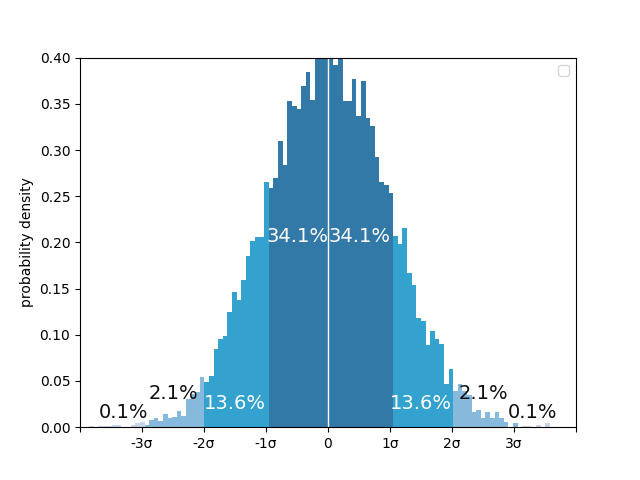
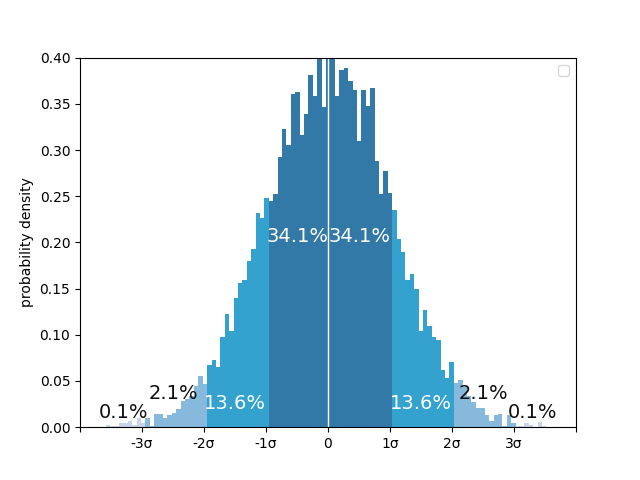
1

diff --git a/test/test_SD_interpretation_application.py b/test/test_SD_interpretation_application.py
@@ -69,18 +69,22 @@ class TDD_TEST_SD_INTERPRETATION_APPLICATION(unittest.TestCase):
                 return ''
             else:
                 return '{0}σ'.format(int(tick_val))
+        oneσ = str(round(self.d.getProbability(σRange=[1, 0])/2*100, 1))+'%'
+        twoσ = str(round(self.d.getProbability(σRange=[2, 1])/2*100, 1))+'%'
+        threeσ = str(round(self.d.getProbability(σRange=[3, 2])/2*100, 1))+'%'
+        fourσ = str(round(self.d.getProbability(σRange=[4, 3]) / 2 * 100, 1)) + '%'
         self.d.plotND(x=[-4, 4], y=[0, .4], l=[l1], mean=0, bars=100, yLable='probability density', density=True,
-format_fn=format_fn,
-annotation=[
-    {'position': (-.5, .2), 'txt': '34.1%', 'color': self.d.white},
-    {'position': (.5, .2), 'txt': '34.1%', 'color': self.d.white},
-    {'position': (-1.5, .02), 'txt': '13.6%', 'color': self.d.white},
-    {'position': (1.5, .02), 'txt': '13.6%', 'color': self.d.white},
-    {'position': (-2.5, .03), 'txt': '2.1%', 'color': self.d.black},
-    {'position': (2.5, .03), 'txt': '2.1%', 'color': self.d.black},
-    {'position': (-3.3, .01), 'txt': '0.1%', 'color': self.d.black},
-    {'position': (3.3, .01), 'txt': '0.1%', 'color': self.d.black}
-])
+                      format_fn=format_fn,
+                      annotation=[
+            {'position': (-.5, .2), 'txt': oneσ, 'color': self.d.white},
+            {'position': (.5, .2), 'txt': oneσ, 'color': self.d.white},
+            {'position': (-1.5, .02), 'txt': twoσ, 'color': self.d.white},
+            {'position': (1.5, .02), 'txt': twoσ, 'color': self.d.white},
+            {'position': (-2.5, .03), 'txt': threeσ , 'color': self.d.black},
+            {'position': (2.5, .03), 'txt': threeσ , 'color': self.d.black},
+            {'position': (-3.3, .01), 'txt':fourσ , 'color': self.d.black},
+            {'position': (3.3, .01), 'txt':fourσ , 'color': self.d.black}
+        ])
 
 
 if __name__ == '__main__':

diff --git a/do_statistics/doStats.py b/do_statistics/doStats.py
@@ -1,6 +1,5 @@
 from scipy import stats
 from scipy.stats import ttest_ind_from_stats
-
 import math,warnings, numpy as np
 class DoStats(object):
     def getND(self, mean, SD,size=1000):
@@ -126,21 +125,29 @@ class DoStats(object):
         # return val
         return np.percentile(self.list, percent * 100)
     # In statistics, the 68–95–99.7 rule, also known as the empirical rule, is a shorthand used to remember the percentage of values that lie within a band around the mean in a normal distribution with a width of two, four and six standard deviations, respectively; more precisely, 68.27%, 95.45% and 99.73% of the values lie within one, two and three standard deviations of the mean, respectively.
-    def getProbability(self,percent=None,isNormal=True):
+    def getProbability(self, percent=None, isNormal=True, σRange=None):
+        if σRange is None:
+            σRange=[]
         if percent is None:
-            std = self.getDistance1std()
-            percent = round(std, 2)
+            if len(σRange):
+                percent=σRange[0]
+            else:
+                std = self.getDistance1std()
+                percent = round(std, 2)
         if isNormal:
             if percent == 0:
-                return 1
+                ret= 0
             elif percent == 1.00:
-                return 0.6827
+                ret= 0.6827
             elif percent == 1.87:
-                return 0.015
+                ret= 0.015
             elif percent == 2.00:
-                return 0.9545
+                ret= 0.9545
             elif percent == 3.00:
-                return 0.9973
+                ret = 0.9973
+            else:
+                ret=1
+            return ret - self.getProbability(σRange[1]) if len(σRange)==2 else ret
     def getVariance(self, l=None):
         if l is None:
             l = [self.list]

diff --git a/graphic/plot.py b/graphic/plot.py
@@ -80,7 +80,7 @@ class Plot(object):
         self.drawGridLines(ax,x,y,density)
         self.plotHist(ax,l,bars,labels,y,density=density)
         self.setHistAxes(ax,x,y,yLable,format_fn)
-        self.plotDotLine(ax, mean, y, density)
+        self.plotLines(ax, mean, y, density)
         if annotation is None:
             annotation=[{'txt': 'Average = {0}'.format(mean),
        'position': (mean, y[1] + 10),
@@ -101,7 +101,7 @@ class Plot(object):
                 i+=1
             color = allCol[m]
             thispatch.set_facecolor(color)
-    def plotDotLine(self, ax, mean, y,density):
+    def plotLines(self, ax, mean, y,density):
         if y is None or mean is None:
             return
         x1 = x2 = mean
